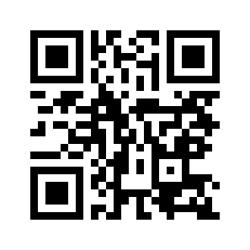
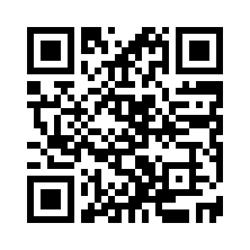
url fix

diff --git a/LBQuiz/Services/QRCodeService.cs b/LBQuiz/Services/QRCodeService.cs
@@ -6,19 +6,29 @@ namespace LBQuiz.Services
     public class QRCodeService : IQRCodeService
     {
         private readonly IConfiguration _configuration;
+        private readonly IHttpContextAccessor _httpContextAccessor;
         public string PathString { get; set; }
         public string UriString { get; set; }
 
-        public QRCodeService(IConfiguration config)
+        public QRCodeService(IConfiguration config, IHttpContextAccessor httpContextAccessor)
         {
             _configuration = config;
+            _httpContextAccessor = httpContextAccessor;
         }
 
         public async Task<string> GetQRImageFromApiAsync(string joinCode)
         {
+            var request = _httpContextAccessor.HttpContext?.Request;
+
+            var baseUrl = $"{request?.Scheme}://{request?.Host}";
+
+            var url = $"{baseUrl}/quiz/{joinCode}";
+
+            //"/quiz/{LobbyCode}"
+
             var apiKey = _configuration["ApiNinjas:ApiKey"];
 
-            var url = $"https://github.com/OsLe99/LBQuiz";
+            //var url = $"https://github.com/OsLe99/LBQuiz";
 
             var client = new HttpClient();
 

diff --git a/LBQuiz/Program.cs b/LBQuiz/Program.cs
@@ -45,6 +45,7 @@ builder.Services.AddIdentityCore<ApplicationUser>(options =>
 builder.Services.AddSingleton<IEmailSender<ApplicationUser>, IdentityNoOpEmailSender>();
 builder.Services.AddMudServices();
 builder.Services.AddSignalR();
+builder.Services.AddHttpContextAccessor();
 
 // Lobby services
 builder.Services.AddSingleton<ILobbyParticipantManager, LobbyParticipantManager>();
